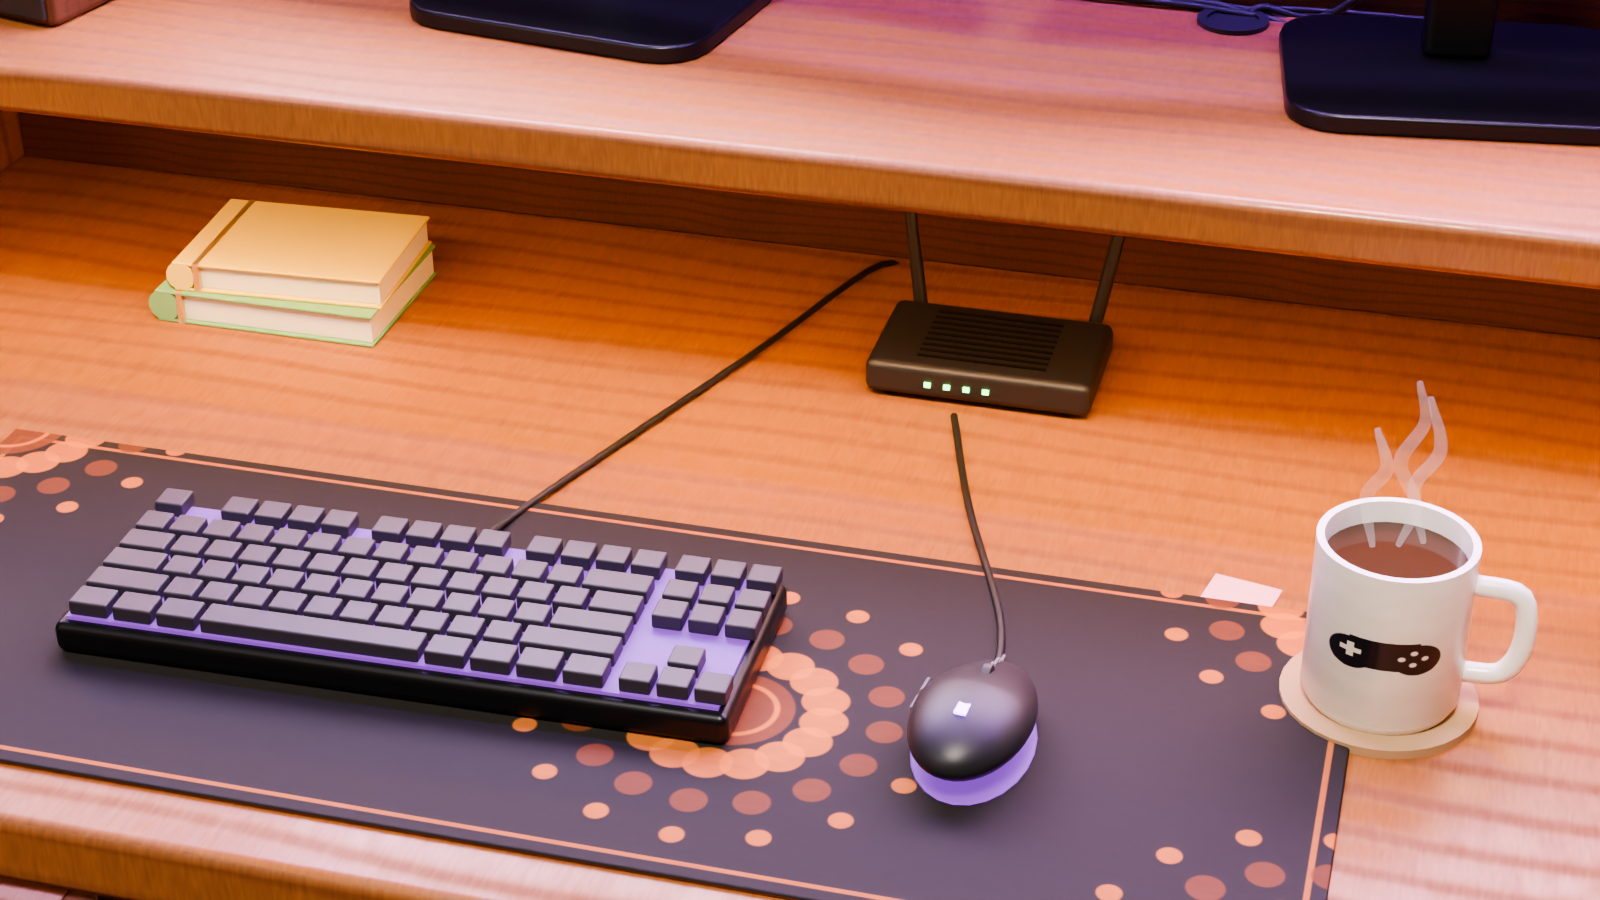
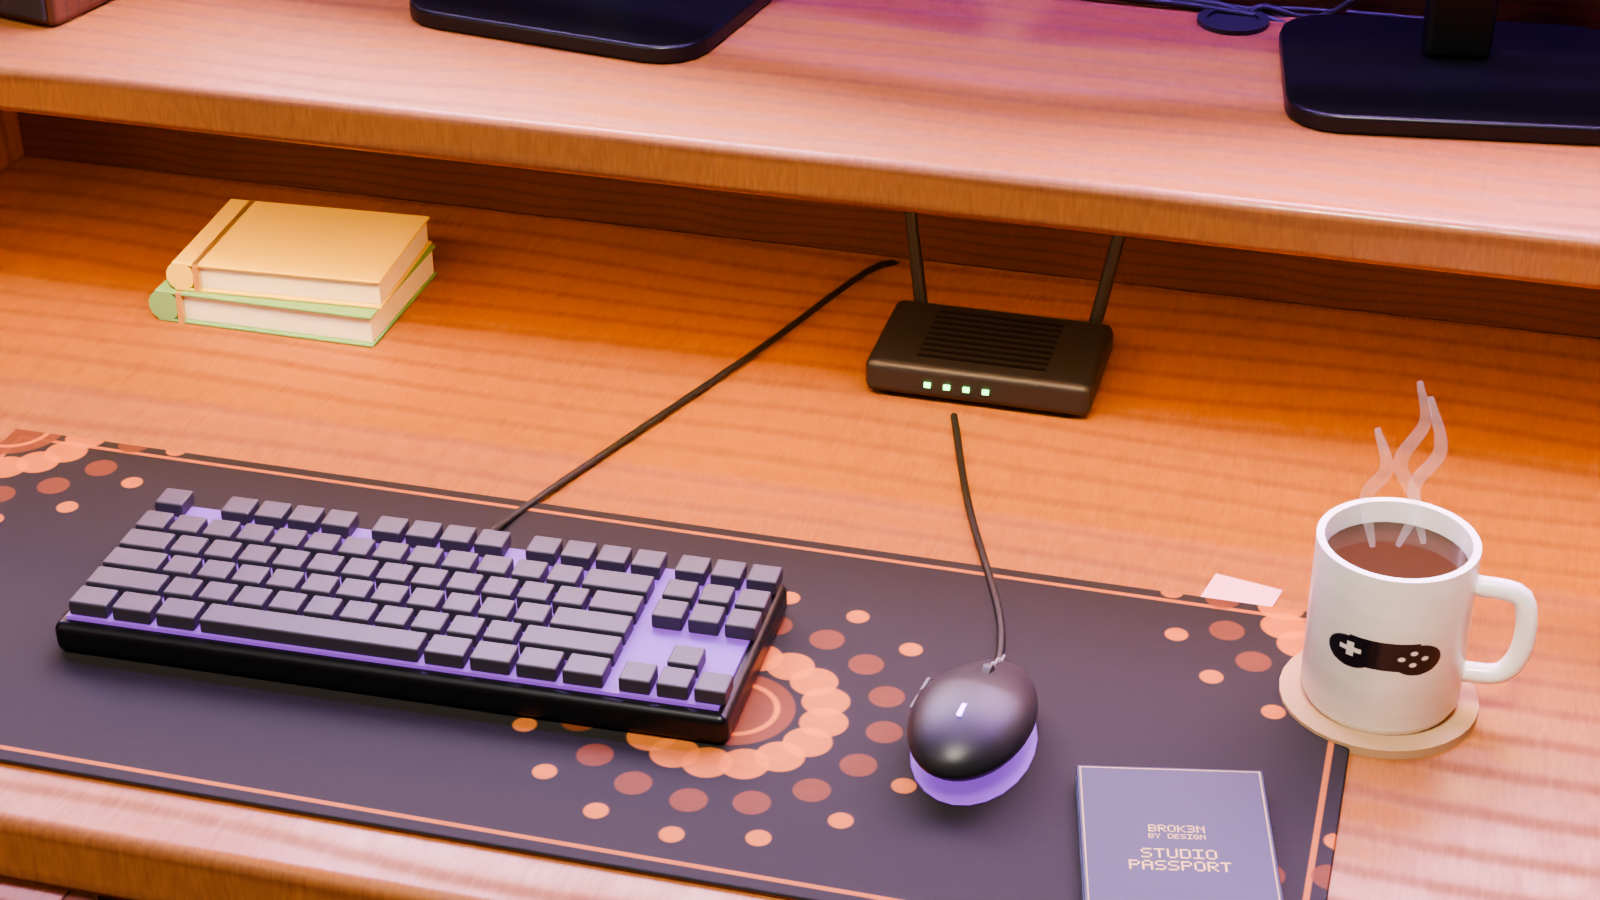
Desk phase 11: Passport booklet moved onto the desk mat (it was hidden behind the chair from the default view)
Claude-Session: https://claude.ai/code/session_01Xzf4YuAX8GcqkdG7RQfati

Changed region(s): [[0.6562, 0.84, 0.8125, 1.0], [0.5938, 0.7778, 0.625, 0.8089]]

diff --git a/diorama/blender/parts/desk_props.py b/diorama/blender/parts/desk_props.py
@@ -328,9 +328,10 @@ def passport(root, top):
         TEX["studio_passport"] = T.label_card("studio_passport", 360, 512, [("BROK3N", 3), ("BY DESIGN", 2), ("", 3),
                                               ("*STUDIO", 4), ("*PASSPORT", 4)], "#1c2742", "#d9b45e", accent="#d9b45e", border=True)
     cover = mat("M_studio_passport", tex="studio_passport", rough=0.55)
-    grp = S.empty("NAV_Passport", "PROPS", loc=(-0.565, 0.265, top), rot=(0, 0, radians(-16)), parent=root, size=0.04)
+    # on the right of the desk mat, between the mouse and the mug: in plain view from the default camera
+    grp = S.empty("NAV_Passport", "PROPS", loc=(0.28, 0.27, top + 0.003), rot=(0, 0, radians(12)), parent=root, size=0.04)
     geo.box("NAV_Passport_Back", (0.09, 0.126, 0.0015), material=mat("M_passport_navy", color=(0.07, 0.09, 0.16), rough=0.55),
-            parent=grp, bevel=0.0006, seg=1, rests_on="DESK_Top")
+            parent=grp, bevel=0.0006, seg=1, rests_on="PROP_DeskMat")
     geo.box("NAV_Passport_Pages", (0.086, 0.121, 0.005), loc=(0.0015, 0, 0.0015), material=M("pages"), parent=grp, bevel=0.0004, seg=1)
     geo.box("NAV_Passport_Cover", (0.09, 0.126, 0.0015), loc=(0, 0, 0.0065), material=cover, parent=grp, bevel=0.0006, seg=1,
             uv="fit", fit_axis=2)
